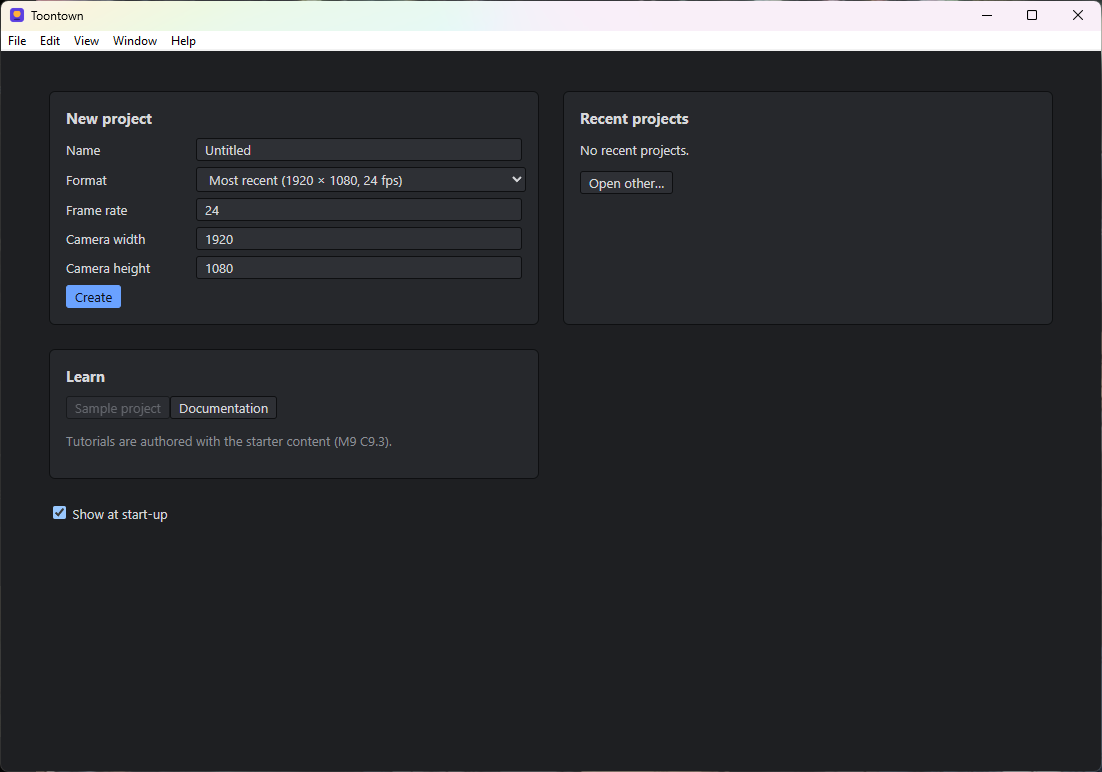
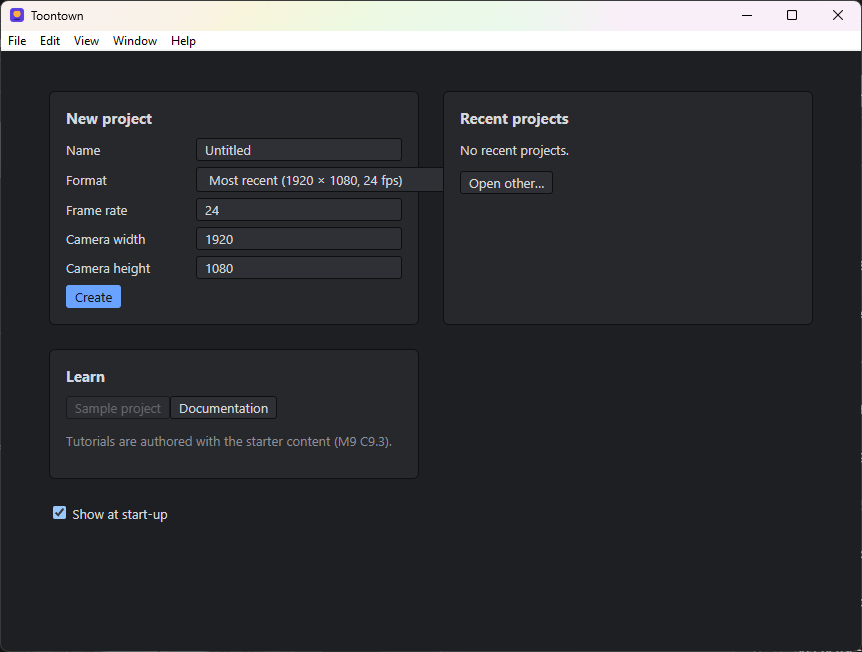
fix(m4 c4.1): GUI e2e uses a window geometry that fits small runner displays and checks persistence against the kernel's pre-restart value
The Windows runner's display is about 1024x768: the OS clamped a 1100-px window and the kernel stored the real size.

diff --git a/scripts/c41-gui-e2e.py b/scripts/c41-gui-e2e.py
@@ -38,6 +38,7 @@ from mcp.client.streamable_http import streamable_http_client
 APP_START_BOUND_S = 120
 APP_PID: dict = {"pid": None}  # first webview start on a cold CI runner; generous on purpose
 TREE_BOUND_S = 60
+GEOMETRY = {"x": 40, "y": 30, "width": 860, "height": 600}
 
 
 class Run:
@@ -46,6 +47,7 @@ class Run:
         self.transcript: list[dict] = []
         self.failures: list[str] = []
         self.shots: list[str] = []
+        self.geometry: dict = {}
 
     def check(self, ok: bool, what: str, detail: object = None) -> bool:
         self.transcript.append({"check": what, "ok": bool(ok), "detail": detail})
@@ -230,7 +232,9 @@ async def first_session(url: str, token: str, run: Run) -> None:
                 run.check(env.get("status") in ("ok", "error") and "save" in json.dumps(env), "the key tool runs the bound command", env)
                 env = await run_cmd(session, "workspace.create", {"name": "E2E"})
                 run.check(env.get("status") == "ok", "workspace.create E2E", env.get("error"))
-                env = await run_cmd(session, "window.geometry.set", {"x": 120, "y": 90, "width": 1100, "height": 720})
+                # A geometry that fits small runner displays (the Windows runner's is about 1024 x 768: the OS clamps a
+                # larger window and the kernel then stores the real size, as it should).
+                env = await run_cmd(session, "window.geometry.set", GEOMETRY)
                 run.check(env.get("status") == "ok", "window.geometry.set", env.get("error"))
 
                 # Typed refusals reach the agent with their codes.
@@ -252,6 +256,10 @@ async def first_session(url: str, token: str, run: Run) -> None:
                 env = await run_cmd(session, "window.panel.set", {"panelId": "colour", "visible": True})
                 run.check((env.get("error") or {}).get("code") == "ui.modalOpen", "a focus change under a user dialog is ui.modalOpen", env)
                 run.save("activity.json", (await run_cmd(session, "agent.activity.list", {"limit": 100})).get("result"))
+                # The geometry the kernel holds before the restart (the window's real size, reported by the host).
+                run.geometry = (await run_cmd(session, "window.geometry.get")).get("result") or {}
+                size = (run.geometry.get("width"), run.geometry.get("height"))
+                run.check(size == (GEOMETRY["width"], GEOMETRY["height"]), "the window took the requested size", run.geometry)
 
 
 async def second_session(url: str, token: str, run: Run) -> None:
@@ -267,7 +275,8 @@ async def second_session(url: str, token: str, run: Run) -> None:
                 names = [w["name"] for w in (await run_cmd(session, "workspace.list")).get("result") or []]
                 run.check("E2E" in names, "the user workspace persisted", names)
                 g = (await run_cmd(session, "window.geometry.get")).get("result") or {}
-                run.check((g.get("width"), g.get("height")) == (1100, 720), "the window geometry persisted", g)
+                before = {k: run.geometry.get(k) for k in ("x", "y", "width", "height")}
+                run.check({k: g.get(k) for k in before} == before, "the window geometry persisted", {"before": before, "after": g})
                 root = await gui_tree(session, run, lambda r: by_id(r, "startScreen") is not None, "the restarted GUI shows the start screen")
                 run.save("tree-04-restart.json", root)
                 run.shot("04-restart", APP_PID["pid"])

diff --git a/reviews/M4-C4.1-handoff.md b/reviews/M4-C4.1-handoff.md
@@ -56,7 +56,7 @@ start-up behaviour and deferred documents; engine-not-responding banner.
 
 `reviews/evidence/M4-C4.1/` ([manifest](evidence/M4-C4.1/README.md)):
 - `local-windows/`: the real product application (debug profile, front end embedded) driven by
-  `scripts/c41-gui-e2e.py` on a Windows 11 workstation over attached mode: 27 checks, 0 failed, 19 s (transcript, UI trees,
+  `scripts/c41-gui-e2e.py` on a Windows 11 workstation over attached mode: 28 checks, 0 failed, 20 s (transcript, UI trees,
   activity log, captures of the application window only, manifest; the discovery token is redacted).
 - `ci-gui-windows/`, `ci-gui-macos/`: the `desktop gui` job of the green CI run (§7) on the product build from
   `bundle`: the same script plus `scripts/mcp-conformance.py --http` (the official Python SDK client, `mcp==2.0.0`,
